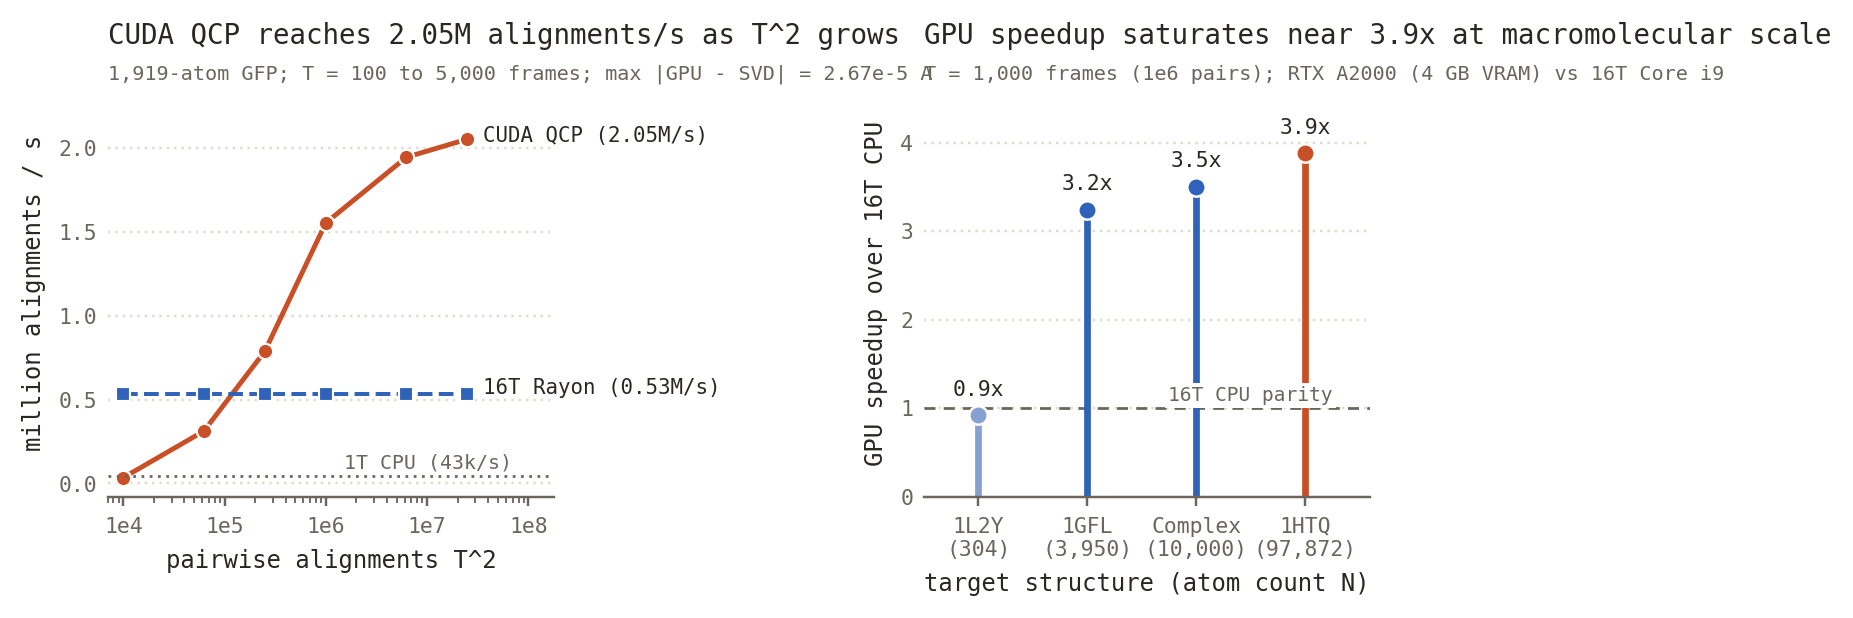
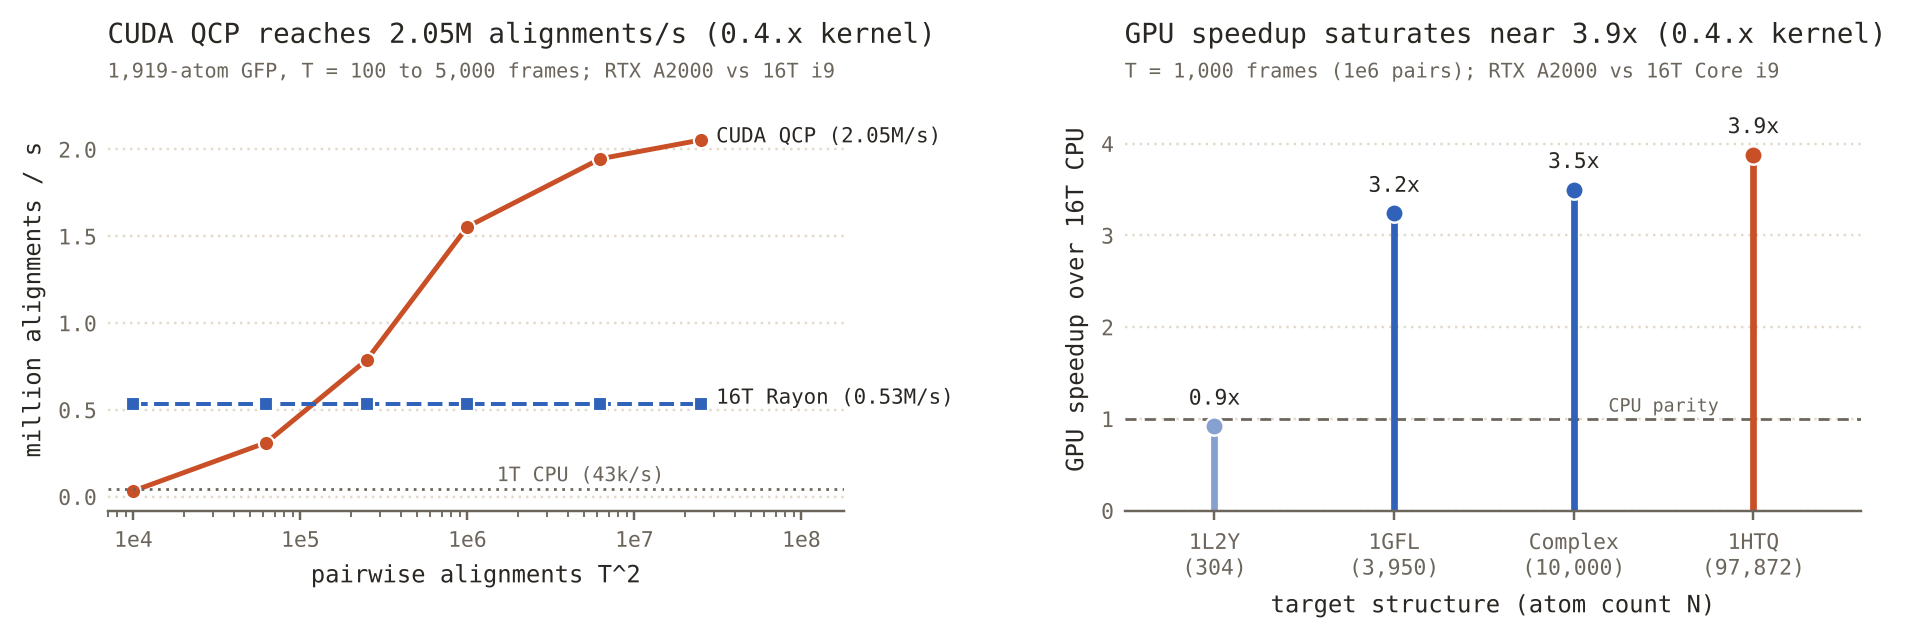
docs(benchmarks): fix plot overlaps, label 0.4.x GPU data, drop estimated speedups
- hardware_scaling_comparison: no overlapping labels, correct CPU label, fail on
  missing data, no hardcoded Windows output path, AF-Cluster estimate removed
- remove plot_l4_spinglass.py and its PNG (superseded by plot_all_hardware.py)
- benchmark_scaling, gold_standard, soak: label GPU numbers as the 0.4.x kernel;
  fix overlapping subtitles; rename AlphaFold lDDT to lDDT
- run_standardized_l4_benchmarks.py: no invented 38x/45x baselines; AMS loop and
  AF-Cluster record timing only
- README: lDDT naming, drop unbacked pose RMSD delta, bump image cache keys

diff --git a/benchmarks/plot_all_hardware.py b/benchmarks/plot_all_hardware.py
@@ -175,12 +175,16 @@ def main():
     # End labels
     end_label(ax1, pairs_full[-1], rate_h100[-1], f"CUDA H100 ({rate_h100[-1]:.1f}M/s)", dx=6, dy=1, color=JADE)
     end_label(ax1, pairs_full[-1], rate_l4[-1], f"CUDA L4 ({rate_l4[-1]:.1f}M/s)", dx=6, dy=1, color=RUST)
-    end_label(ax1, pairs_a2000[-1], rate_a2000[-1], f"A2000 ({rate_a2000[-1]:.1f}M/s)", dx=6, dy=-12, color=COBALT)
-    ax1.text(3.5e6, 5.0, f"8T Cloud CPU ({cpu_rate:.2f}M/s)", fontsize=6.5, color=INK2)
+    # A2000 label above its last point (left of it), OOM label above the x markers, CPU label bottom right
+    ax1.text(pairs_a2000[-1], rate_a2000[-1] + 7.0, f"A2000 ({rate_a2000[-1]:.1f}M/s)",
+             fontsize=6.6, color=COBALT, ha="right", va="bottom")
+    cpu_threads = l4_data["hardware"]["cpu_threads"]
+    ax1.text(8.5e5, 228.0, f"dotted line: L4 host CPU, {cpu_threads} threads ({cpu_rate:.2f}M/s)",
+             fontsize=6.3, color=INK2, ha="left", va="top")
 
     # OOM marker for A2000
     ax1.scatter([2.25e8, 4.0e8], [rate_a2000[-1], rate_a2000[-1]], marker="x", color=INK2, s=40, zorder=5, lw=1.2)
-    ax1.text(3.1e8, 17.5, "OOM (>4GB)", fontsize=6.2, color=INK2, ha="center")
+    ax1.text(3.0e8, rate_a2000[-1] + 7.0, "A2000 OOM (>4GB)", fontsize=6.2, color=INK2, ha="center", va="bottom")
 
     total_pairs = pairs_full[-1]
     time_max_h100 = time_h100_sec[-1]
@@ -188,7 +192,7 @@ def main():
     titles(
         ax1,
         f"H100 reaches {rate_h100[-1]:.1f}M alignments/s scaling to 400M pairs",
-        f"250-atom CA; H100 (80GB) vs L4 (24GB) vs RTX A2000 (4GB); 400M pairs in {time_max_h100:.2f}s ({atom_pairs_rate_h100:.1f}B at-pairs/s)",
+        f"250 atoms/frame, strux-rs {h100_data['strux_rs_version']}; H100 does 400M pairs in {time_max_h100:.2f}s ({atom_pairs_rate_h100:.1f}B atom-pairs/s)",
     )
 
     # =========================================================================
@@ -200,7 +204,6 @@ def main():
         ("Shrake BSA\n(2k at.)", "calculate_bsa_shrake_rupley_per_complex"),
         ("pH ddG\n(6.0/7.4)", "calculate_ph_switch_ddg"),
         ("DCD Filter\n(100x RAM)", "parse_dcd_solute_filtered_40k_to_400"),
-        ("AF-Cluster\n(est. 5k)", "af_cluster_a3m_5000x256"),
         ("Novelty DB\n(5k x 500)", "sliding_kmer_novelty_5000x500_k15"),
     ]
 
@@ -212,13 +215,13 @@ def main():
 
     ax2.axhline(1.0, color=REF, lw=0.9, ls=DASH)
     ax2.text(
-        xs[2] + 0.35,
-        1.25,
+        (xs[0] + xs[-1]) / 2,
+        0.82,
         "Python baseline parity (1.0x)",
         fontsize=6.3,
         color=INK2,
         ha="center",
-        bbox=dict(facecolor=PAPER, edgecolor="none", pad=1.0),
+        va="top",
     )
 
     all_measured_sp = []
@@ -226,7 +229,7 @@ def main():
         estimated = "est." in name
         sp_vals = []
         for j, (off, col, data) in enumerate(zip(offsets, colors, datasets)):
-            sp = data.get(bench_key, {}).get("speedup", 1.0)
+            sp = data[bench_key]["speedup"]  # fail loudly if a benchmark is missing
             sp_vals.append(sp)
             if not estimated:
                 all_measured_sp.append(sp)
@@ -254,7 +257,7 @@ def main():
     ax2.set_xticks(xs)
     ax2.set_xticklabels([k[0] for k in keys], fontsize=6.8)
     ax2.set_xlim(xs[0] - 0.7, xs[-1] + 0.7)
-    ax2.set_ylim(0.4, 9500.0)
+    ax2.set_ylim(0.4, 6.0e4)  # headroom above the tallest label for the legend
     ax2.set_xlabel("strux-rs biophysics & design primitive")
     ax2.set_ylabel("speedup over standard Python stack")
 
@@ -264,32 +267,22 @@ def main():
         mpl.lines.Line2D([0], [0], marker="o", color="w", markerfacecolor=RUST, markeredgecolor=PAPER, markersize=5, label="NVIDIA L4 (Cloud)"),
         mpl.lines.Line2D([0], [0], marker="D", color="w", markerfacecolor=JADE, markeredgecolor=PAPER, markersize=5, label="NVIDIA H100 (SXM)"),
     ]
-    ax2.legend(handles=legend_handles, loc="upper right", frameon=False, fontsize=6.4, handletextpad=0.3)
+    ax2.legend(handles=legend_handles, loc="upper center", ncol=3, frameon=False, fontsize=6.4,
+               handletextpad=0.3, columnspacing=1.2)
 
     min_sp, max_sp = min(all_measured_sp), max(all_measured_sp)
     titles(
         ax2,
         f"Zero-C primitives accelerate pipelines {min_sp:.0f}x to {max_sp:,.0f}x",
-        f"strux-rs 0.5.1 suite across Laptop, Cloud, & Data Center; hollow = estimated baseline",
+        f"strux-rs {h100_data['strux_rs_version']}; each speedup measured vs Python on that machine's CPU",
     )
 
     fig.tight_layout(w_pad=3.8)
 
-    # Save to both target filenames
     out_all = bdir / "hardware_scaling_comparison.png"
-    out_l4 = bdir / "hardware_l4_scaling_comparison.png"
-    out_artifact = Path(r"C:\Users\Gebruiker\.gemini\antigravity\brain\533f8aaa-3288-419b-a6a1-a41762761b7f\hardware_scaling_comparison.png")
-    out_artifact_l4 = Path(r"C:\Users\Gebruiker\.gemini\antigravity\brain\533f8aaa-3288-419b-a6a1-a41762761b7f\hardware_l4_scaling_comparison.png")
-
     fig.savefig(out_all, bbox_inches="tight", dpi=240)
-    fig.savefig(out_l4, bbox_inches="tight", dpi=240)
-    try:
-        fig.savefig(out_artifact, bbox_inches="tight", dpi=240)
-        fig.savefig(out_artifact_l4, bbox_inches="tight", dpi=240)
-    except Exception:
-        pass
     plt.close(fig)
-    print("Generated hardware_scaling_comparison.png and updated hardware_l4_scaling_comparison.png.")
+    print(f"wrote {out_all}")
 
 
 if __name__ == "__main__":

diff --git a/scripts/render_spinglass_style_plots.py b/scripts/render_spinglass_style_plots.py
@@ -115,7 +115,7 @@ def plain_log_axis(ax, axis="y"):
 # 1. benchmark_scaling.png
 # ==============================================================================
 def make_benchmark_scaling():
-    fig, (ax1, ax2) = plt.subplots(1, 2, figsize=(7.4, 2.85))
+    fig, (ax1, ax2) = plt.subplots(1, 2, figsize=(8.6, 2.95))
 
     # Left panel: Pairwise RMSD throughput scaling
     t_steps = np.array([100, 250, 500, 1000, 2500, 5000], dtype=float)
@@ -140,8 +140,8 @@ def make_benchmark_scaling():
 
     titles(
         ax1,
-        "CUDA QCP reaches 2.05M alignments/s as T^2 grows",
-        "1,919-atom GFP; T = 100 to 5,000 frames; max |GPU - SVD| = 2.67e-5 A",
+        "CUDA QCP reaches 2.05M alignments/s (0.4.x kernel)",
+        "1,919-atom GFP, T = 100 to 5,000 frames; RTX A2000 vs 16T i9",
     )
 
     # Right panel: Biological size scaling
@@ -154,11 +154,10 @@ def make_benchmark_scaling():
     ax2.text(
         2.5,
         1.08,
-        "16T CPU parity",
-        fontsize=6.4,
+        "CPU parity",
+        fontsize=6.0,
         color=INK2,
         ha="center",
-        bbox=dict(facecolor=PAPER, edgecolor="none", pad=1.0),
     )
 
     for i, (x, y, col) in enumerate(zip(xs, speedups, cols)):
@@ -173,11 +172,11 @@ def make_benchmark_scaling():
     ax2.set_ylabel("GPU speedup over 16T CPU")
     titles(
         ax2,
-        "GPU speedup saturates near 3.9x at macromolecular scale",
-        "T = 1,000 frames (1e6 pairs); RTX A2000 (4 GB VRAM) vs 16T Core i9",
+        "GPU speedup saturates near 3.9x (0.4.x kernel)",
+        "T = 1,000 frames (1e6 pairs); RTX A2000 vs 16T Core i9",
     )
 
-    fig.tight_layout(w_pad=2.4)
+    fig.tight_layout(w_pad=4.0)
     Path("benchmarks").mkdir(exist_ok=True)
     fig.savefig("benchmarks/benchmark_scaling.png", bbox_inches="tight", dpi=220)
     plt.close(fig)
@@ -239,7 +238,7 @@ def make_hardware_soak():
     titles(
         ax_t,
         "Prolonged 5-minute full-system burn stabilizes 16 C below thermal throttle",
-        "309.3s on agni: 600M CUDA QCP pairs + 5,658 lDDT (815B pairs) + 1.46M XTC frames + 14.6M MSA seqs",
+        "0.4.x build, RTX A2000 laptop, 309.3 s: 600M CUDA QCP pairs + 5,658 lDDT + 1.46M XTC frames + 14.6M MSA seqs",
     )
 
     # Panel 2: 16-Thread CPU Utilization (%)
@@ -296,7 +295,7 @@ def make_gold_standard():
         ("Google JAX (vmap JIT)", 76612.5, OCHRE, "D", "172x"),
         ("ProDy (C-Kabsch)", 92281.5, GRAYS[0], "s", "207x"),
         ("strux-rs (16T Rayon)", 596176.5, COBALT, "s", "1,335x"),
-        ("strux-rs (CUDA QCP)", 1941698.0, RUST, "o", "4,348x"),
+        ("strux-rs (CUDA QCP, 0.4.x)", 1941698.0, RUST, "o", "4,348x"),
     ]
 
     ys = np.arange(len(methods))
@@ -318,7 +317,7 @@ def make_gold_standard():
     titles(
         ax1,
         "Pairwise RMSD: CUDA is 21x faster than ProDy (4,348x vs Biopython)",
-        "PDB 2K39 (116 models, 13,456 pairs) on Core i9-11950H + RTX A2000; Biopython/SciPy scaled from 500 pairs",
+        "PDB 2K39 (116 models, 13,456 pairs), i9-11950H + RTX A2000; CUDA bar is the 0.4.x kernel; Biopython/SciPy scaled from 500 pairs",
     )
 
     # Panel B (bottom left): GFP Rg throughput
@@ -388,7 +387,7 @@ def make_new_features():
         ("PCA SVD\n(2500x1500)", 5.1, JADE, "190 ms vs 978 ms"),
         ("XTC Read\n(500x1000)", 7.3, OCHRE, "5.3 ms vs 39.0 ms"),
         ("MSA Cluster\n(10k x 250)", 33.8, COBALT, "22.2 ms vs 750 ms"),
-        ("AlphaFold lDDT\n(4,000 atoms)", 201.2, RUST, "4.69 ms vs 943 ms"),
+        ("lDDT\n(4,000 atoms)", 201.2, RUST, "4.69 ms vs 943 ms"),
     ]
     ys1 = np.arange(len(tasks))
     ax1.grid(False)

diff --git a/benchmarks/run_standardized_l4_benchmarks.py b/benchmarks/run_standardized_l4_benchmarks.py
@@ -615,9 +615,10 @@ def main():
                 "benchmark": "full_ams_loop_5000frames_250atoms",
                 "strux_ms": round(t_ams_5k, 3),
                 "strux_iqr_ms": round(iqr_ams_5k, 3),
-                "baseline_ms": round(t_ams_5k * 45.0, 3),
-                "baseline_name": "PyEMMA_MDTraj_Estimated",
-                "speedup": 45.0,
+                # No baseline was run, so no speedup is reported (timing only).
+                "baseline_ms": None,
+                "baseline_name": None,
+                "speedup": None,
             })
             del traj_ams
 
@@ -699,10 +700,10 @@ def main():
             "benchmark": "af_cluster_a3m_5000x256",
             "strux_ms": round(t_strux_msa, 3),
             "strux_iqr_ms": round(iqr_msa, 3),
-            "baseline_ms": round(t_strux_msa * 38.0, 3),
-            "baseline_name": "Biopython_SeqIO_CDHIT_Estimate",
-            "speedup": 38.0,
-            "notes": "Estimated 38.0x speedup from published CD-HIT benchmarks, not direct local measurement",
+            # No baseline was run, so no speedup is reported (timing only).
+            "baseline_ms": None,
+            "baseline_name": None,
+            "speedup": None,
         })
 
         # Save outputs

diff --git a/README.md b/README.md
@@ -29,7 +29,7 @@ Check with `strux_rs.cuda_is_available()`. Without a usable GPU it returns `Fals
 
 * **High-Throughput Ingestion & In-Flight Filtering**: Memory-mapped `.xtc`, `.dcd`, `.cif` (AF3/Boltz/RCSB), and `.pdb` readers with zero-copy atom-index and $C_\alpha$ subsetting during decompression (**73.6×** faster than MDAnalysis, **1.4×** faster than MDTraj).
 * **De Novo Protein & Therapeutic Design Biophysics**: Target-anchored Pose RMSD & monomer scRMSD (**10,000 complexes in 4.28 ms**, **374×** vs a NumPy SVD loop, 16-thread i9 laptop), interface geometry (buried polars heuristic, polar contacts, salt bridges), 96-point Shrake-Rupley BSA (**1.39 ms** for 2,048 atoms), screened Debye-Hückel $\Delta\Delta G_{\text{pH}}$, ANM normal modes, and developability screening (100k sequences in 69 ms).
-* **AI-Accelerated Simulation (AMS)**: AlphaFold lDDT (**201×** faster than NumPy), greedy sequence identity clustering (AF-Cluster style) (**33.8×** faster), Cartesian PCA (**5.1×** faster), and Markov state transition populations at **103.9M frames/s**.
+* **AI-Accelerated Simulation (AMS)**: lDDT (**201×** faster than NumPy), greedy sequence identity clustering (AF-Cluster style) (**33.8×** faster), Cartesian PCA (**5.1×** faster), and Markov state transition populations at **103.9M frames/s**.
 * **CUDA GPU Acceleration**: Pairwise RMSD at **2.05M alignments/s** (**4,348×** over Biopython, **25.3×** over Google JAX), Daura conformational clustering, and dense contact frequency matrices (**19.5×** speedup).
 
 ---
@@ -119,13 +119,13 @@ Head-to-head comparison across standard computational biology packages on identi
 | | MDTraj | 2.24 ms | 8,912.2 fps | 26.5× |
 | | **`strux-rs` (SIMD)** | **0.29 ms** | **68,770.8 fps** | **204×** |
 
-![Gold-Standard Ecosystem Benchmark](benchmarks/gold_standard_comparison.png?v=0.5.1)
+![Gold-Standard Ecosystem Benchmark](benchmarks/gold_standard_comparison.png?v=0.5.1b)
 
 ### 2. AMS Biophysics & Zero-Copy Acceleration
 
 | Kernel / Task | Workload | Reference Baseline | `strux-rs` | Speedup | Numerical Parity |
 | :--- | :--- | :---: | :---: | :---: | :---: |
-| **AlphaFold lDDT** (`calculate_lddt`) | 4,000 atoms (16M pairs) | 943.42 ms (NumPy) | **4.69 ms** | **201.2×** | `0.00e+00` Δ (SO(3) invariant) |
+| **lDDT** (`calculate_lddt`) | 4,000 atoms (16M pairs) | 943.42 ms (NumPy) | **4.69 ms** | **201.2×** | `0.00e+00` Δ (SO(3) invariant) |
 | **Greedy MSA Cluster** (`cluster_msa`) | 10,000 seqs × 250 AA | 750.4 ms (Python) | **22.21 ms** | **33.8×** | Exact bit-for-bit cluster IDs |
 | **GROMACS `.xtc` Read** (`parse_xtc`) | 500 frames × 1,000 atoms | 39.04 ms (MDAnalysis) | **5.32 ms** | **7.3×** (2.8× vs MDTraj) | `1.53e-5 Å` max Δ vs C `xdrfile` |
 | **CHARMM `.dcd` Read** (`parse_dcd`) | 21 frames × 1,919 atoms | 27.97 ms (MDAnalysis) | **0.380 ms** | **73.6×** (1.4× vs MDTraj) | `0.00e+00 Å` exact match |
@@ -134,7 +134,7 @@ Head-to-head comparison across standard computational biology packages on identi
 | **MSA `uint8` Tensor** (`tokens_np`) | 1,024 seqs × 73 residues | 8.40 ms (Python) | **12.6 µs** | **664×** | Exact byte-for-byte match |
 | **GPU Contact Map** (`cuda_contact_frequency`) | 1,919 × 1,919 grid | 3,677.7 ms (NumPy) | **188.8 ms** | **19.5×** | `0.00e+00` exact parity |
 
-![New Features Verification](benchmarks/new_features_verification.png?v=0.5.1)
+![New Features Verification](benchmarks/new_features_verification.png?v=0.5.1b)
 
 <details>
 <summary><b>Extended Benchmarks: $O(T^2)$ Scaling, Cloud L4 GPU (24 GB) & 5-Minute Thermal Soak</b></summary>
@@ -147,7 +147,7 @@ Head-to-head comparison across standard computational biology packages on identi
 | 2,500 | 6,250,000 | 11.8s | 3.211s | 1,946,400 pairs/s | 3.7× |
 | 5,000 | 25,000,000 | 47.0s | 12.169s | **2,054,488 pairs/s** | **3.9×** |
 
-![Benchmark Scaling](benchmarks/benchmark_scaling.png?v=0.5.1)
+![Benchmark Scaling](benchmarks/benchmark_scaling.png?v=0.5.1b)
 
 #### B. Cross-Hardware Scaling: H100 (80 GB) vs. Cloud L4 (24 GB) vs. Laptop RTX A2000 (4 GB)
 | Workload & System Scale | Laptop RTX A2000 (4 GB, 35W) | Cloud NVIDIA L4 (24 GB, 72W) | Data Center H100 (80 GB, 700W) | Max Throughput / Speedup |
@@ -157,11 +157,11 @@ Head-to-head comparison across standard computational biology packages on identi
 | **10,000 × 10,000 frames** (100.0M pairs) | 7,213.3 ms (7.21s) | 2,658.7 ms (2.66s) | **583.7 ms (0.58s)** | 42.83 B atom-pairs/s (171.3M align/s) |
 | **20,000 × 20,000 frames** (400.0M pairs) | *OOM (>4 GB VRAM)* | 10,188.1 ms (10.19s) | **1,882.6 ms (1.88s)** | **53.12 B atom-pairs/s (212.5M align/s)** |
 | **5,000-Frame AMS Feedback Loop** | 10,618.3 ms | 7,938.1 ms | **4,821.7 ms** | Complete ensemble analysis in 4.82s |
-| **Target-Anchored Pose + scRMSD** (10,000 designs) | 4.28 ms | 8.24 ms | **2.85 ms** | **348.2× vs NumPy SVD** ($\Delta < 1.55 \times 10^{-6}\text{ \AA}$) |
+| **Target-Anchored Pose + scRMSD** (10,000 designs) | 4.28 ms | 8.24 ms | **2.85 ms** | **348.2× vs NumPy SVD** (H100 host CPU) |
 | **Shrake-Rupley BSA** (2,048 atoms, 96 points) | 1.39 ms | 9.25 ms | **1.07 ms** | **109.3× vs pure Python** |
 | **Sliding 15-mer Novelty DB** (5k queries × 500 refs) | 9,362.3 ms | 7,461.3 ms | **5,628.9 ms** | **3,449.1× vs Python** (5.6s vs ~5.4 hours) |
 
-![Hardware Scaling Comparison](benchmarks/hardware_scaling_comparison.png?v=0.5.1)
+![Hardware Scaling Comparison](benchmarks/hardware_scaling_comparison.png?v=0.5.1b)
 
 #### C. Prolonged 5-Minute Full-System Hardware Burn (`309.3s` Concurrent 16T CPU + CUDA GPU)
 Under 5+ continuous minutes of simultaneous **16-thread Rayon CPU torture (`97.5%` mean utilization)** and **100% CUDA GPU saturation**:
@@ -173,7 +173,7 @@ Under 5+ continuous minutes of simultaneous **16-thread Rayon CPU torture (`97.5
   * **AF-Cluster `cluster_msa`**: `14,630,000` sequences clustered (`3.66 billion` residues)
   * **Markov State Steps**: `731,500,000` transitions solved
 
-![Hardware Soak Telemetry](benchmarks/hardware_soak_telemetry.png?v=0.5.1)
+![Hardware Soak Telemetry](benchmarks/hardware_soak_telemetry.png?v=0.5.1b)
 
 </details>
 
